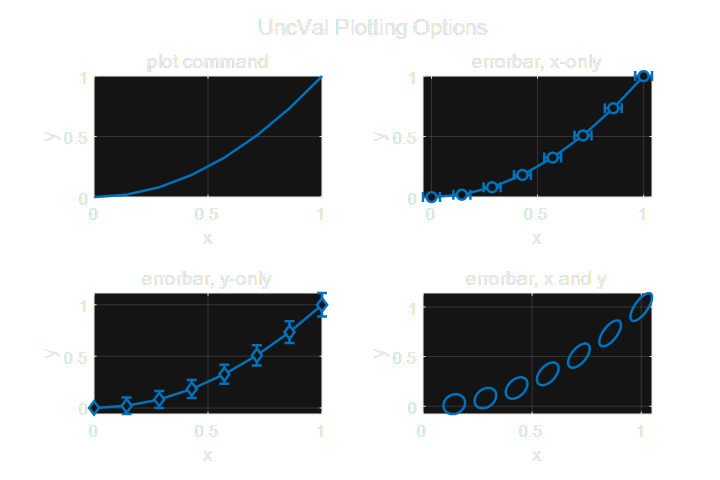
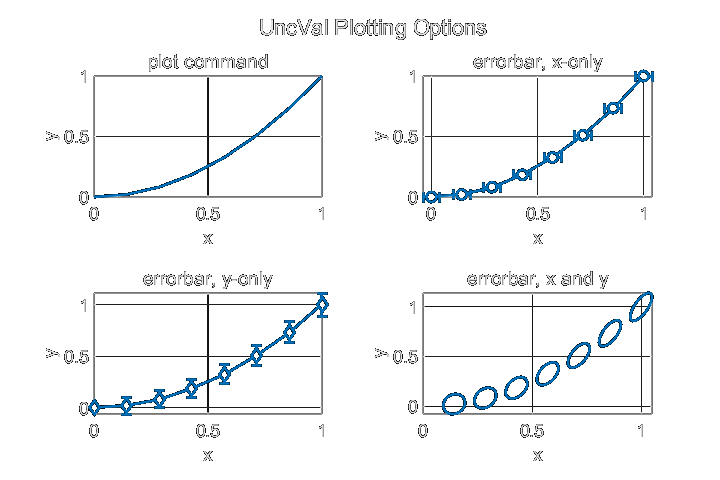
Adding function to generate transparent png's for readme, #10

diff --git a/make_graphics.m b/make_graphics.m
@@ -1,0 +1,96 @@
+% make_graphics.m
+% makes graphics for readme file.
+
+x = UncVal(linspace(0, 1, 8), 0.02, "x");
+y = x.^2 + UncVal(0, 0.04, "y");
+
+%% Make light plot
+figure(Name="light", ...
+    Color="w", ...
+    defaultAxesColor="w", ...
+    defaultAxesXColor=[0.15, 0.15, 0.15], ...
+    defaultAxesYColor=[0.15, 0.15, 0.15], ...
+    defaultAxesGridColor=[0.15, 0.15, 0.15], ...
+    defaultAxesXGrid="on", ...
+    defaultAxesYGrid="on", ...
+    defaultTextColor=[0.15, 0.15, 0.15], ...
+    defaultAxesFontSize=12, ...
+    defaultErrorBarLineWidth=1.5, ...
+    defaultLineLineWidth=1.5, ...
+    defaultLineMarkerFaceColor="w", ...
+    Units="in", ...
+    Position=[1, 1, 6, 4]);
+
+t = tiledlayout("flow");
+title(t, "UncVal Plotting Options");
+nexttile;hold on;xlabel("x");ylabel("y");
+title("plot command", FontWeight="normal");
+plot(x, y);
+
+t.Title.Color = get(gca, "XColor"); % I have some funny defaults
+
+ha = nexttile;hold on;xlabel("x");ylabel("y");
+title("errorbar, x-only", FontWeight="normal")
+errorbar(x, y.val, Marker="o", MarkerFaceColor=ha.Color);
+
+nexttile;hold on;xlabel("x");ylabel("y");
+title("errorbar, y-only", FontWeight="normal")
+errorbar(x.val, y, Marker="d", MarkerFaceColor=ha.Color);
+
+nexttile;hold on;xlabel("x");ylabel("y");
+title("errorbar, x and y", FontWeight="normal")
+errorbar(x, y);
+
+write_png(gcf);
+
+%% Make dark plot
+figure(Name="dark", ...
+    Color=[0, 0, 0], ...
+    defaultAxesColor=[0, 0, 0], ...
+    defaultAxesXColor=[1,1,1].*230/255, ...
+    defaultAxesYColor=[1,1,1].*230/255, ...
+    defaultAxesGridColor=[1,1,1].*230/255, ...
+    defaultAxesXGrid="on", ...
+    defaultAxesYGrid="on", ...
+    defaultTextColor=[1,1,1].*230/255, ...
+    defaultAxesFontSize=12, ...
+    defaultErrorBarLineWidth=1.5, ...
+    defaultLineLineWidth=1.5, ...
+    defaultLineMarkerFaceColor=[1,1,1].*20/255, ...
+    Units="in", ...
+    Position=[1, 1, 6, 4]);
+
+t = tiledlayout("flow");
+title(t, "UncVal Plotting Options");
+nexttile;hold on;xlabel("x");ylabel("y");
+title("plot command", FontWeight="normal");
+plot(x, y);
+
+t.Title.Color = get(gca, "XColor"); % I have some funny defaults
+
+ha = nexttile;hold on;xlabel("x");ylabel("y");
+title("errorbar, x-only", FontWeight="normal")
+errorbar(x, y.val, Marker="o", MarkerFaceColor=ha.Color);
+
+nexttile;hold on;xlabel("x");ylabel("y");
+title("errorbar, y-only", FontWeight="normal")
+errorbar(x.val, y, Marker="d", MarkerFaceColor=ha.Color);
+
+nexttile;hold on;xlabel("x");ylabel("y");
+title("errorbar, x and y", FontWeight="normal")
+errorbar(x, y);
+
+write_png(gcf);
+
+%% Utility function
+function write_png(hf)
+
+imdata = getframe(hf);
+a = double(imdata.cdata)./255.0;
+cref = reshape(hf.Color, [1, 1, 3]);
+alpha = ones(size(a, [1, 2]));
+idx = all(a == cref, 3);
+alpha(idx) = 0;
+imwrite(imdata.cdata, hf.Name + ".png", Alpha=alpha);
+
+end
